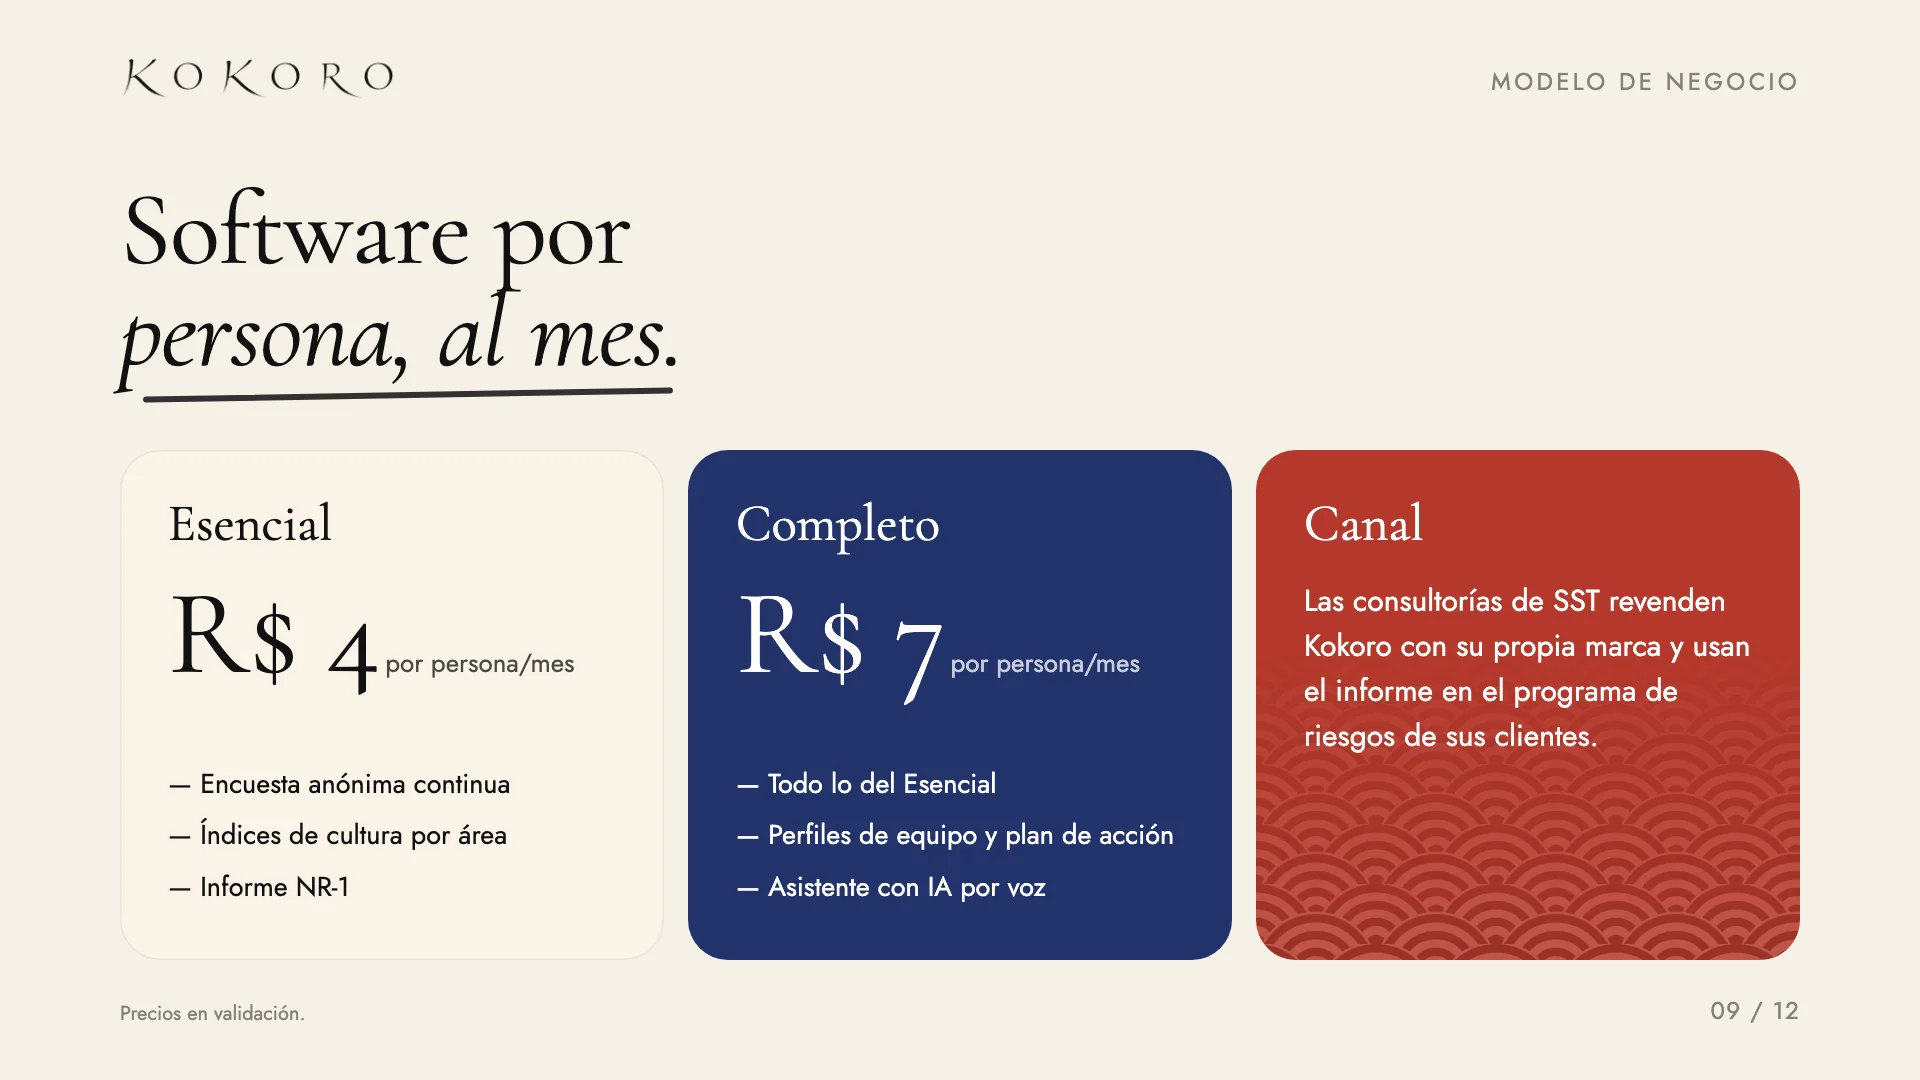
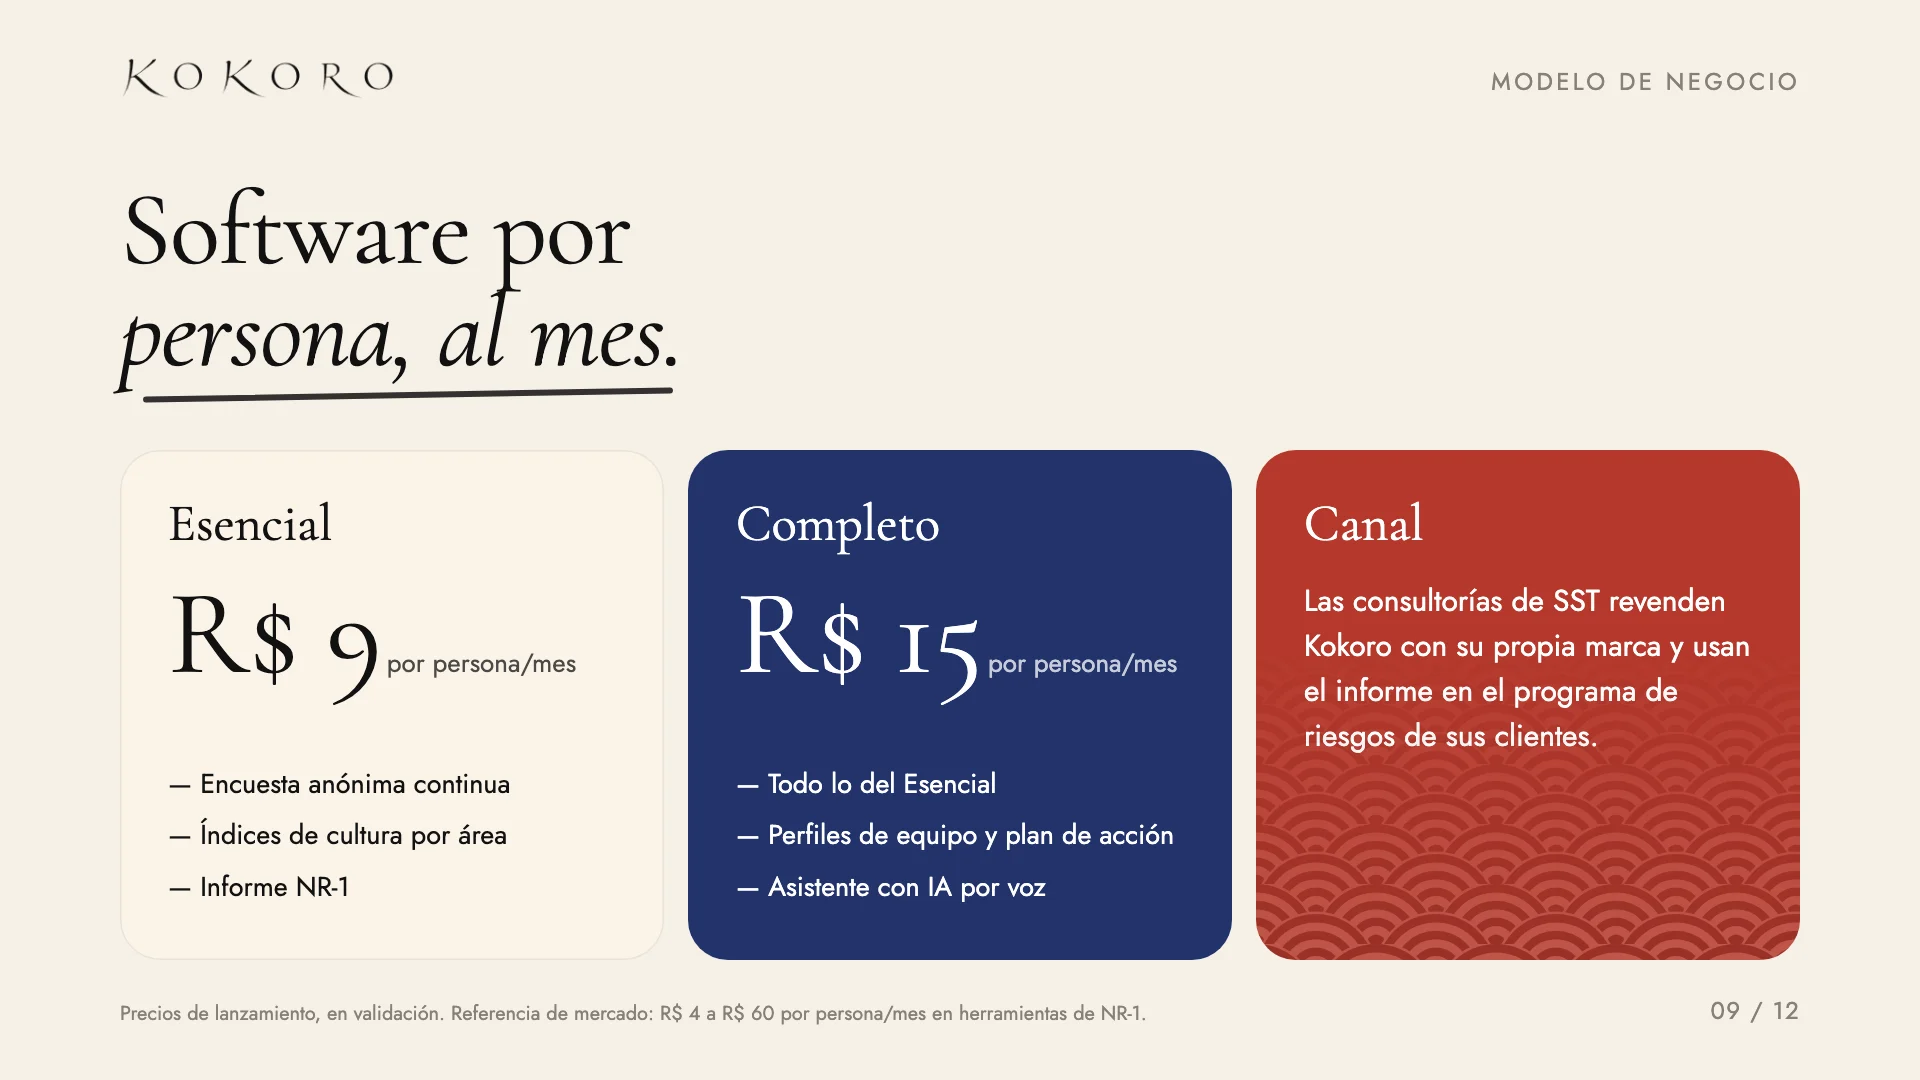
Site: mais respiro entre seções, transições de cena e slides revisados
- Espaçamento maior entre as seções (desktop e celular).
- Transição por rolagem: a seção que chega entra em foco, a que sai recua
  desfocada; títulos de seção surgem com revelação de baixo para cima.
- Slides 2, 5, 8 e 9: custo dos afastamentos, novo preço (R$ 9 e R$ 15),
  mercado de R$ 4,2 bi e slide 8 com o caminho 20 → 3 → k = 3 em destaque.
- Logo menor no celular para não encostar no seletor de idioma.

Changed region(s): [[0.0938, 0.9167, 0.5938, 0.9472], [0.4688, 0.5806, 0.625, 0.6417], [0.1562, 0.5806, 0.3125, 0.6417]]

diff --git a/src/lib/site-i18n.ts b/src/lib/site-i18n.ts
@@ -62,7 +62,7 @@ const PT: SiteText = {
     stack: "Python · pandas · scikit-learn",
     codigo: ["Código aberto", "Pipeline em Python, do tratamento dos dados aos índices de cultura e aos perfis de equipe. Repositório público no GitHub."],
     apresentacao: "Apresentação", anterior: "Slide anterior", proximo: "Próximo slide",
-    slidesAlt: ["Kokoro: escute sua equipe, cuide da cultura", "Problema: 546 mil afastamentos por transtornos mentais em 2025", "Solução: pesquisa, índices, perfis e plano, relatório NR-1", "Por que agora: a NR-1 exige avaliar riscos psicossociais desde 26/05/2026", "Mercado: 57,1 milhões de vínculos formais", "Concorrência", "Produto: telas da plataforma", "Por dentro: dados reais da OSMI e privacidade", "Modelo de negócio: software por pessoa por mês", "Impacto: da escuta à ação", "Equipe: Geovanna Lim", "Próximos passos"],
+    slidesAlt: ["Kokoro: escute sua equipe, cuide da cultura", "Problema: 546 mil afastamentos por transtornos mentais em 2025, cerca de R$ 1 bi pagos pelo INSS", "Solução: pesquisa, índices, perfis e plano, relatório NR-1", "Por que agora: a NR-1 exige avaliar riscos psicossociais desde 26/05/2026", "Mercado: 57,1 milhões de vínculos formais", "Concorrência", "Produto: telas da plataforma", "Por dentro: dados reais da OSMI e privacidade", "Modelo de negócio: software por pessoa por mês", "Impacto: da escuta à ação", "Equipe: Geovanna Lim", "Próximos passos"],
   },
   sobre: {
     hero: { l1: "Empresas onde é seguro", l2a: "falar de", l2b: "saúde mental." },
@@ -108,7 +108,7 @@ const EN: SiteText = {
     stack: "Python · pandas · scikit-learn",
     codigo: ["Open source", "A Python pipeline, from data cleaning to culture indexes and team profiles. Public GitHub repository."],
     apresentacao: "Presentation", anterior: "Previous slide", proximo: "Next slide",
-    slidesAlt: ["Kokoro: listen to your team, care for the culture", "Problem: 546k sick leaves for mental disorders in 2025", "Solution: survey, indexes, profiles and plan, NR-1 report", "Why now: NR-1 requires assessing psychosocial risks since May 26, 2026", "Market: 57.1 million formal jobs", "Competition", "Product: platform screens", "Under the hood: real OSMI data and privacy", "Business model: software per person per month", "Impact: from listening to action", "Team: Geovanna Lim", "Next steps"],
+    slidesAlt: ["Kokoro: listen to your team, care for the culture", "Problem: 546k sick leaves for mental disorders in 2025, about R$ 1B paid by the INSS", "Solution: survey, indexes, profiles and plan, NR-1 report", "Why now: NR-1 requires assessing psychosocial risks since May 26, 2026", "Market: 57.1 million formal jobs", "Competition", "Product: platform screens", "Under the hood: real OSMI data and privacy", "Business model: software per person per month", "Impact: from listening to action", "Team: Geovanna Lim", "Next steps"],
   },
   sobre: {
     hero: { l1: "Companies where it's safe", l2a: "to talk about", l2b: "mental health." },
@@ -154,7 +154,7 @@ const ES: SiteText = {
     stack: "Python · pandas · scikit-learn",
     codigo: ["Código abierto", "Pipeline en Python, del tratamiento de los datos a los índices de cultura y los perfiles de equipo. Repositorio público en GitHub."],
     apresentacao: "Presentación", anterior: "Diapositiva anterior", proximo: "Siguiente diapositiva",
-    slidesAlt: ["Kokoro: escucha a tu equipo, cuida la cultura", "Problema: 546 mil bajas por trastornos mentales en 2025", "Solución: encuesta, índices, perfiles y plan, informe NR-1", "Por qué ahora: la NR-1 exige evaluar los riesgos psicosociales desde el 26/05/2026", "Mercado: 57,1 millones de empleos formales", "Competencia", "Producto: pantallas de la plataforma", "Por dentro: datos reales de la OSMI y privacidad", "Modelo de negocio: software por persona al mes", "Impacto: de la escucha a la acción", "Equipo: Geovanna Lim", "Próximos pasos"],
+    slidesAlt: ["Kokoro: escucha a tu equipo, cuida la cultura", "Problema: 546 mil bajas por trastornos mentales en 2025, unos R$ 1.000 M pagados por el INSS", "Solución: encuesta, índices, perfiles y plan, informe NR-1", "Por qué ahora: la NR-1 exige evaluar los riesgos psicosociales desde el 26/05/2026", "Mercado: 57,1 millones de empleos formales", "Competencia", "Producto: pantallas de la plataforma", "Por dentro: datos reales de la OSMI y privacidad", "Modelo de negocio: software por persona al mes", "Impacto: de la escucha a la acción", "Equipo: Geovanna Lim", "Próximos pasos"],
   },
   sobre: {
     hero: { l1: "Empresas donde es seguro", l2a: "hablar de", l2b: "salud mental." },

diff --git a/src/app/(site)/site.css b/src/app/(site)/site.css
@@ -399,3 +399,48 @@
 /* contorno no vídeo do topo da home: o fundo marfim dele quase some no marfim da página */
 .ks-home__video::after { content: ""; position: absolute; inset: 0; border-radius: inherit; box-shadow: inset 0 0 0 1.5px var(--sumi); pointer-events: none; z-index: 1; }
 .ks-home__video .ks-tag { z-index: 2; }
+
+/* ---------- respiro entre seções: cada seção cabe inteira na tela antes da próxima ---------- */
+@media (min-width: 768px) {
+  .ks-home__telas { margin-top: 240px; }
+  .ks-bento { margin-top: 120px; }
+  .ks-home__sobre { margin-top: 260px; }
+  .ks-about { margin-top: 96px; }
+  .ks-wizard { margin-top: 120px; }
+  .ks-pbento { margin-top: 240px; }
+  .ks-slides { margin-top: 260px; }
+  .ks-sobre { margin-top: 120px; }
+  .ks-mission, .ks-sbento2 { margin-top: 200px; }
+  .ks-signature { margin: 240px auto 120px; }
+}
+@media (max-width: 767px) {
+  .ks-home__telas { margin-top: 150px; }
+  .ks-home__sobre { margin-top: 160px; }
+  .ks-pbento { margin-top: 140px; }
+  .ks-slides { margin-top: 150px; }
+  .ks-mission, .ks-sbento2 { margin-top: 120px; }
+  .ks-signature { margin: 160px auto 88px; }
+  .ks-logo { width: 124px; height: 27px; background-size: 124px 27px; }
+}
+
+/* ---------- transições de cena entre seções (rolagem) ----------
+   A seção que chega sobe do fundo, desfocada, e entra em foco; a que sai recua, perde foco e escurece,
+   como um corte com profundidade de campo. Só onde o navegador tem animação por rolagem. */
+@keyframes ks-scene {
+  0% { opacity: 0; transform: translateY(96px) scale(.94); filter: blur(12px); }
+  14%, 86% { opacity: 1; transform: none; filter: none; }
+  100% { opacity: .2; transform: translateY(-48px) scale(.95); filter: blur(8px); }
+}
+@keyframes ks-wipe {
+  from { clip-path: inset(0 0 100% 0); transform: translateY(48px); }
+  to { clip-path: inset(-20% 0 -20% 0); transform: none; }
+}
+@supports (animation-timeline: view()) {
+  .ks-fx :is(.ks-home__telas, .ks-home__sobre, .ks-wizard, .ks-pbento, .ks-slides, .ks-sbento, .ks-mission, .ks-sbento2) {
+    animation: ks-scene linear both; animation-timeline: view(); animation-range: cover 0% cover 100%;
+    transform-origin: 50% 30%; will-change: transform, opacity, filter;
+  }
+  .ks-fx :is(.ks-home__telas, .ks-home__sobre) > h2, .ks-fx .ks-slides__title {
+    animation: ks-wipe linear both; animation-timeline: view(); animation-range: entry 10% cover 28%;
+  }
+}
